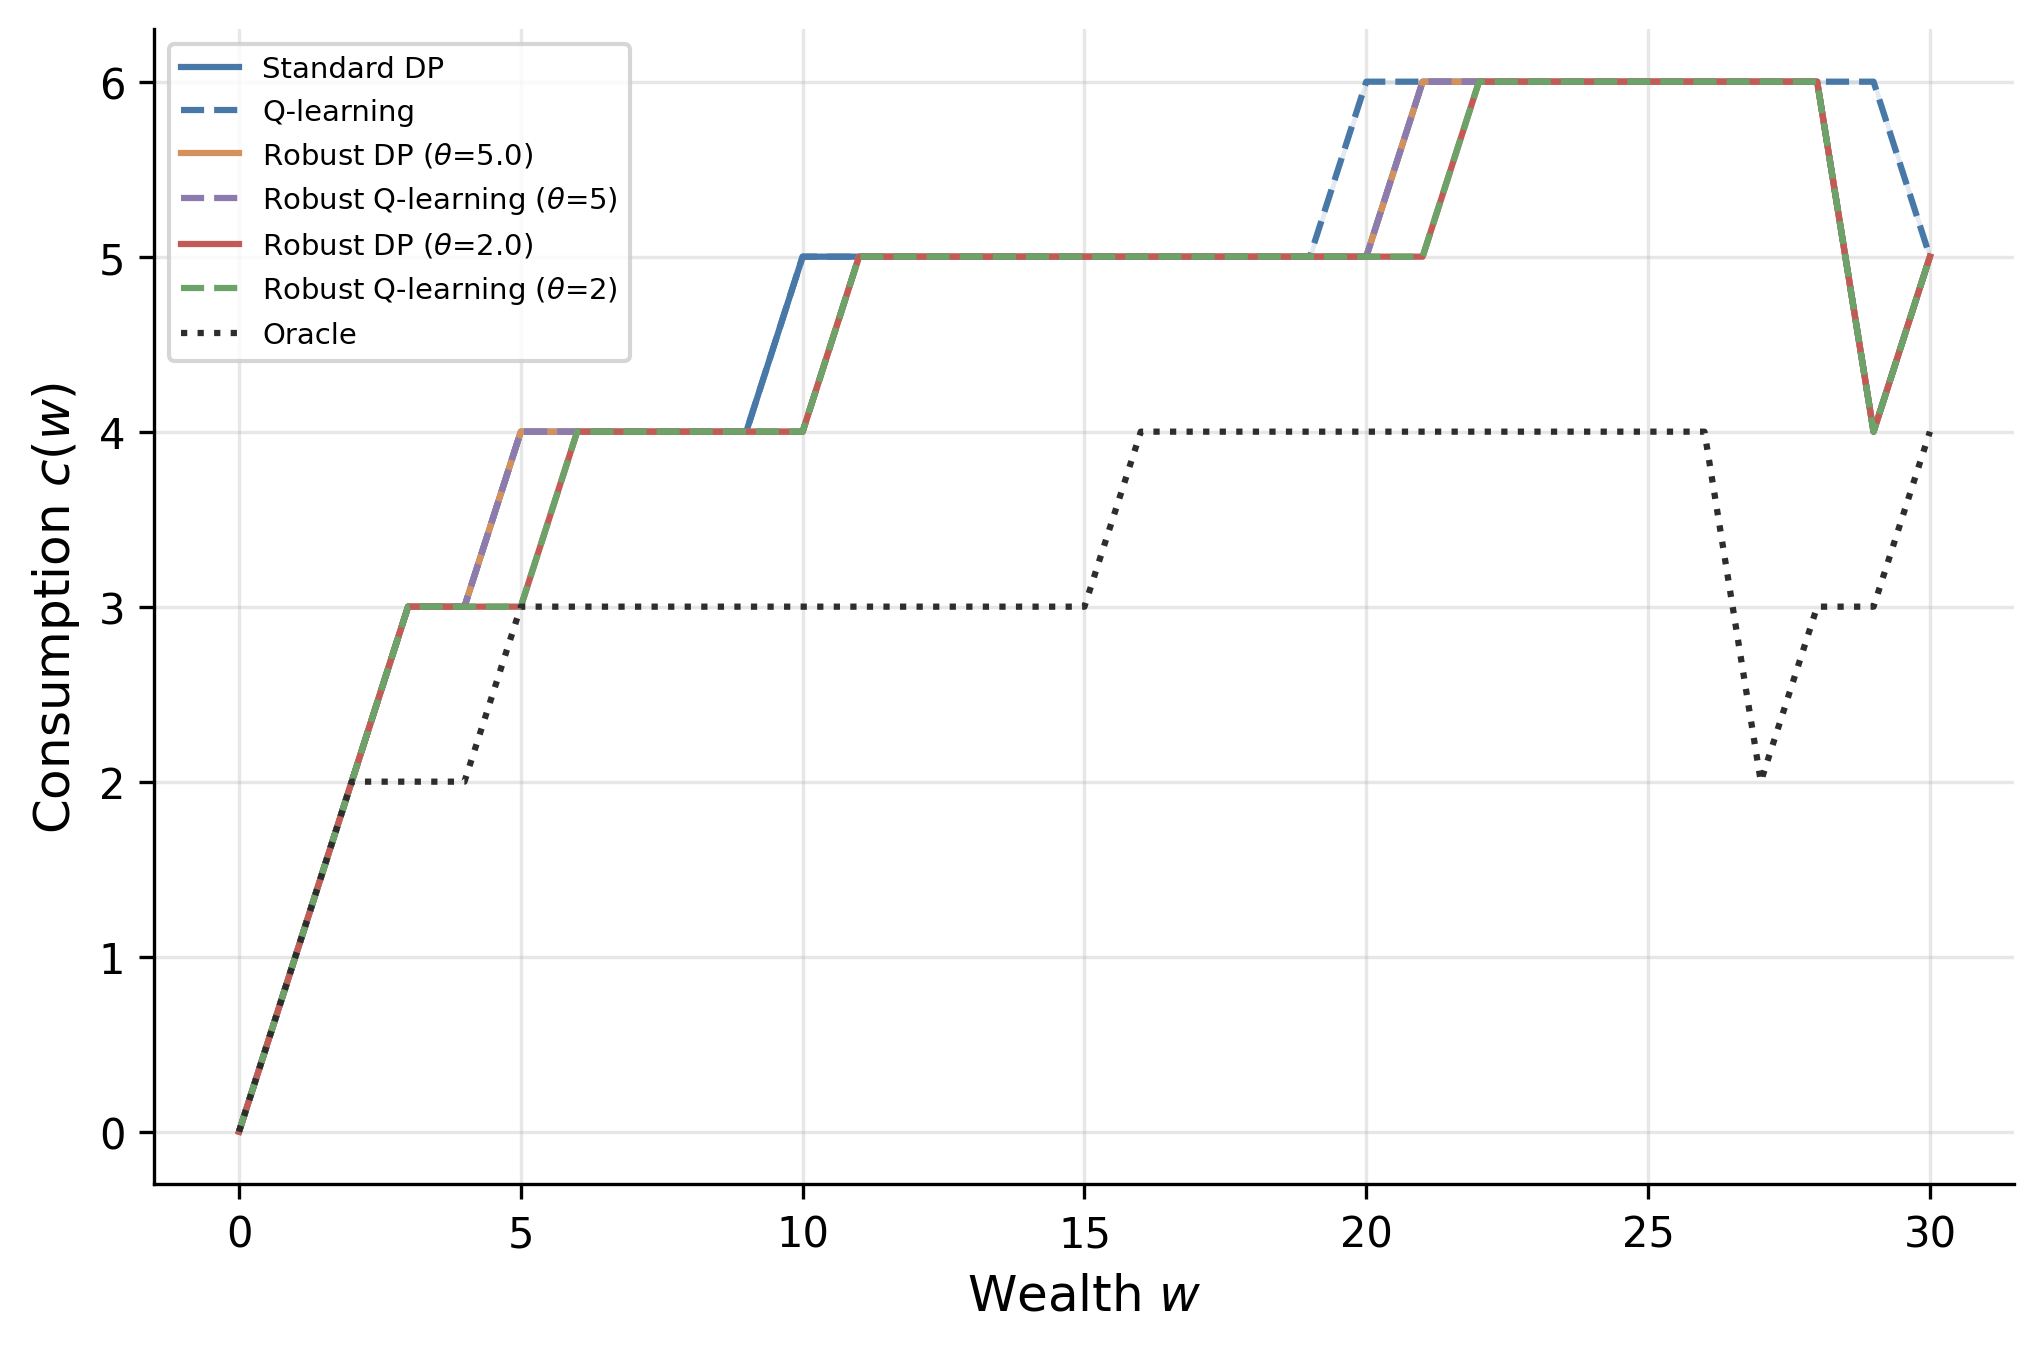
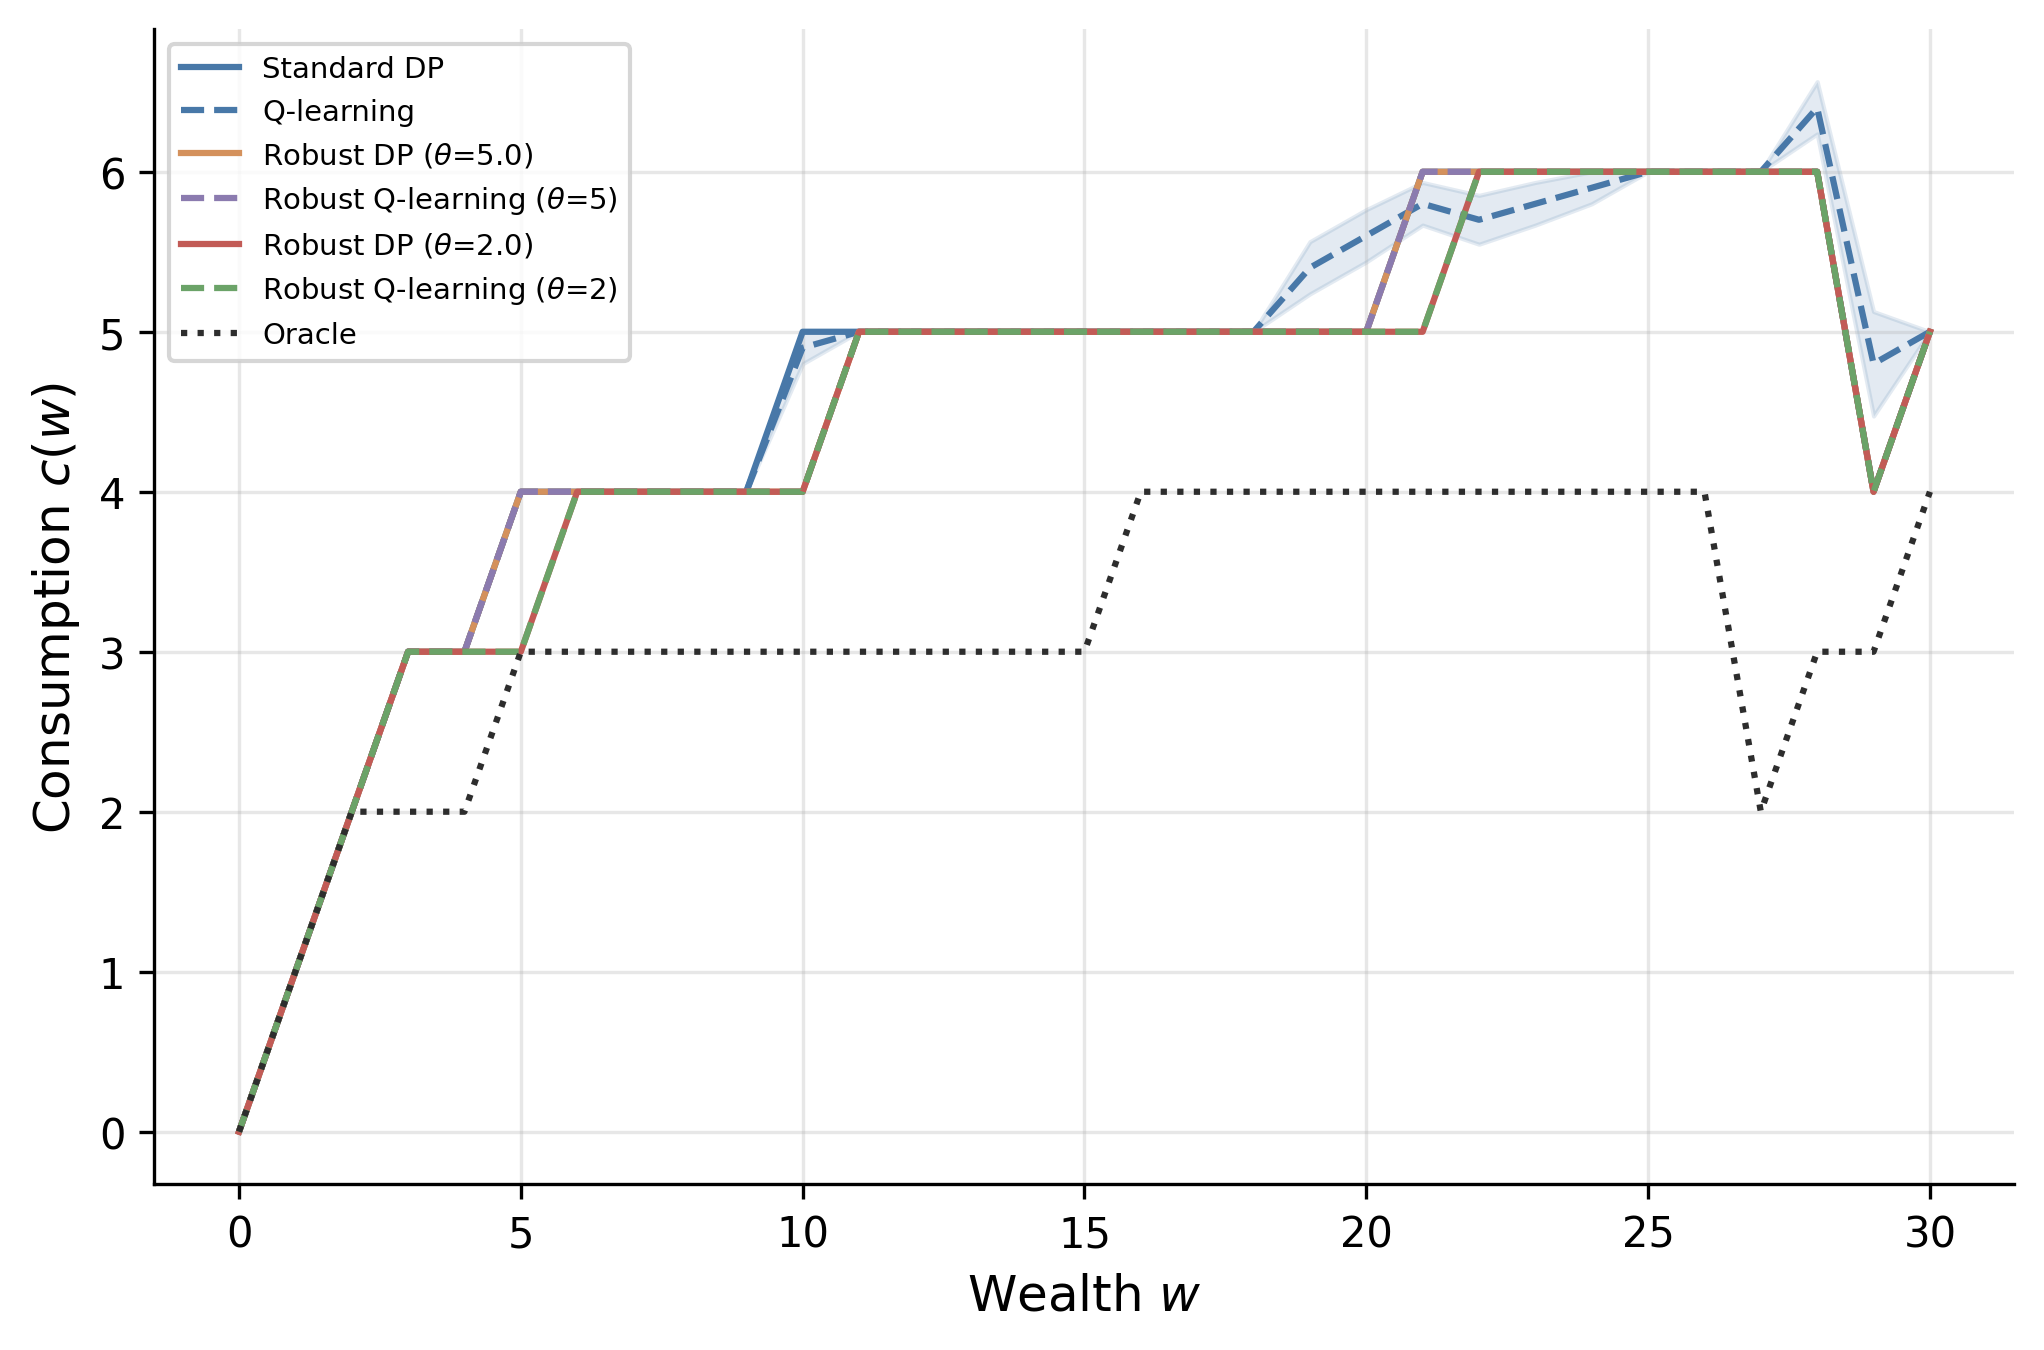
polish(sims): robust_consumption_savings seed sweep + audit index
Continuation of the sim-polish pass. Raises robust_consumption_savings
to the N>=10 mean+SE standard, refreshes its stdout/table/figure and the
dist_robust_constrained tex. Adds the rbc_dp_vs_drl and
robust_consumption_savings polish reports; reworks audits/_INDEX.md.

diff --git a/ch11_dist_robust_constrained/tex/dist_robust_constrained.tex b/ch11_dist_robust_constrained/tex/dist_robust_constrained.tex
@@ -589,11 +589,24 @@ $10^5$ episodes.} All seven policies are then evaluated under both the
 nominal and perturbed income models.
 
 Table~\ref{tab:robust_consumption} reports discounted returns under both
-models. Under the nominal model, all policies perform similarly.
+models, with each of the seven policies evaluated on a common set of ten
+income-sequence seeds so that returns are mean estimates with standard
+errors. Under the nominal model, all policies perform similarly.
 Under the perturbed model, standard DP degrades by 76\% while the
-$\theta = 2$ robust policy degrades by 72\%. The Q-learning and robust
-Q-learning policies match their DP counterparts, confirming that the
-model-free algorithms recover the same precautionary savings behavior.
+$\theta = 2$ robust policy degrades by 72\%. Across the ten seeds the
+Q-learning and robust Q-learning policies recover their DP counterparts:
+the two robust variants reproduce the robust DP consumption rule exactly,
+and standard Q-learning differs at no more than one wealth level, with
+returns statistically indistinguishable from standard DP. The model-free
+algorithms thus recover the same precautionary savings behavior without
+access to the income distribution.
+The gain from robustness here is modest in absolute terms. The
+$\theta = 2$ policy recovers about 4.5 percentage points of the 76\%
+degradation, whereas an oracle that knows the perturbed distribution
+recovers 37 points. KL-ball robustness hedges against a band of nearby
+distributions rather than fitting the realized one, so it closes only a
+fraction of the oracle gap; this is the expected price of not knowing the
+true model, not a deficiency of the method.
 Figure~\ref{fig:robust_consumption} shows the mechanism: robust agents
 consume less at each wealth level, building a precautionary savings buffer
 against adverse income realizations.

diff --git a/ch11_dist_robust_constrained/sims/robust_consumption_savings.py b/ch11_dist_robust_constrained/sims/robust_consumption_savings.py
@@ -440,18 +440,21 @@ def generate_outputs(data):
     print(f"Figure: {fig_path}")
 
     # -- Table ----------------------------------------------------------------
+    # All seven policies are evaluated across the same N_SEEDS eval seeds;
+    # SEs are reported at 3 decimals (the 5000-episode MC error is small).
     tex = [r"\begin{tabular}{lrrr}", r"\hline",
            r"Method & Nominal & Perturbed & Degradation (\%) \\", r"\hline"]
     for name in METHOD_ORDER:
         r = all_results[name]
-        if r['nom_se'] is not None and r['nom_se'] > 0:
-            nom_str = f"${r['nom']:.2f} \\pm {r['nom_se']:.2f}$"
-            pert_str = f"${r['pert']:.2f} \\pm {r['pert_se']:.2f}$"
-            pct_str = f"${r['pct']:.1f}$"
+        nom_se = r['nom_se'] if r['nom_se'] is not None else 0.0
+        pert_se = r['pert_se'] if r['pert_se'] is not None else 0.0
+        if nom_se > 0:
+            nom_str = f"${r['nom']:.3f} \\pm {nom_se:.3f}$"
+            pert_str = f"${r['pert']:.3f} \\pm {pert_se:.3f}$"
         else:
-            nom_str = f"${r['nom']:.2f}$"
-            pert_str = f"${r['pert']:.2f}$"
-            pct_str = f"${r['pct']:.1f}$"
+            nom_str = f"${r['nom']:.3f}$"
+            pert_str = f"${r['pert']:.3f}$"
+        pct_str = f"${r['pct']:.1f}$"
         label = name.replace('th=', r'$\theta$=')
         tex.append(f"{label} & {nom_str} & {pert_str} & {pct_str} \\\\")
     tex += [r"\hline", r"\end{tabular}"]

diff --git a/ch11_dist_robust_constrained/sims/robust_consumption_savings_table.tex b/ch11_dist_robust_constrained/sims/robust_consumption_savings_table.tex
@@ -2,12 +2,12 @@
 \hline
 Method & Nominal & Perturbed & Degradation (\%) \\
 \hline
-Standard DP & $-4.94$ & $-8.69$ & $-76.0$ \\
-Q-learning & $-4.94$ & $-8.70$ & $-76.0$ \\
-Robust DP ($\theta$=5.0) & $-4.94$ & $-8.67$ & $-75.5$ \\
-Robust Q-learning ($\theta$=5) & $-4.95$ & $-8.68$ & $-75.5$ \\
-Robust DP ($\theta$=2.0) & $-4.95$ & $-8.49$ & $-71.6$ \\
-Robust Q-learning ($\theta$=2) & $-4.95$ & $-8.49$ & $-71.5$ \\
-Oracle & $-5.46$ & $-7.60$ & $-39.1$ \\
+Standard DP & $-4.941 \pm 0.001$ & $-8.694 \pm 0.004$ & $-76.0$ \\
+Q-learning & $-4.941 \pm 0.001$ & $-8.692 \pm 0.005$ & $-75.9$ \\
+Robust DP ($\theta$=5.0) & $-4.942 \pm 0.001$ & $-8.672 \pm 0.004$ & $-75.5$ \\
+Robust Q-learning ($\theta$=5) & $-4.942 \pm 0.001$ & $-8.672 \pm 0.004$ & $-75.5$ \\
+Robust DP ($\theta$=2.0) & $-4.948 \pm 0.001$ & $-8.486 \pm 0.004$ & $-71.5$ \\
+Robust Q-learning ($\theta$=2) & $-4.948 \pm 0.001$ & $-8.486 \pm 0.004$ & $-71.5$ \\
+Oracle & $-5.465 \pm 0.001$ & $-7.606 \pm 0.003$ & $-39.2$ \\
 \hline
 \end{tabular}
